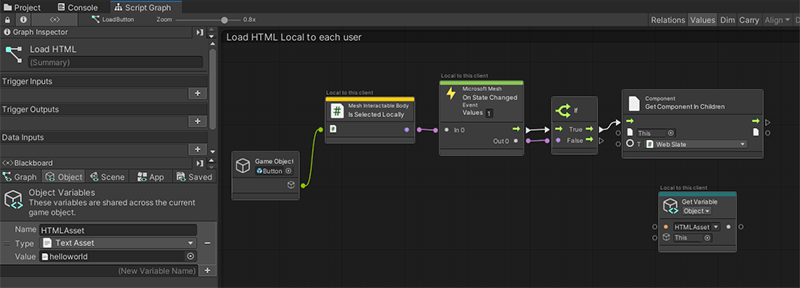
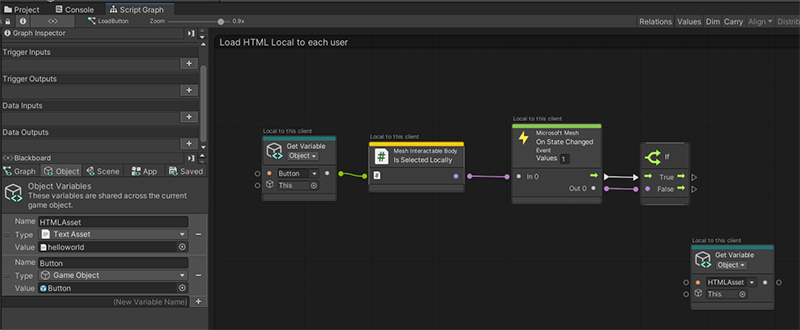
edits-082924-1740

Changed region(s): [[0.0, 0.0, 1.0, 1.0]]

diff --git a/mesh/develop/getting-started/mesh-201-tutorial/mesh-201-02-webslate-1.md b/mesh/develop/getting-started/mesh-201-tutorial/mesh-201-02-webslate-1.md
@@ -3,7 +3,7 @@ title: Mesh 201 Pt. 2':' Load a local non-shared HTML file into a WebSlate
 description: Learn about loading a local non-shared HTML file into a WebSlate.
 author: vtieto
 ms.author: vinnietieto
-ms.date: 7/11/2024
+ms.date: 8/29/2024
 ms.topic: tutorial
 ms.service: mesh
 keywords: Microsoft Mesh, getting started, Mesh 101, tutorial, scripting, visual scripting, code, coding, interactivity, webslates, HTML
@@ -39,8 +39,6 @@ Now that you're all set up and have had a chance to try out the project, let's m
  
     ![A screenshot of a computer Description ](../../../media/mesh-201/015-webslateframed-in-hierarchy.png)
 
-    **Note**: You have two options when choosing a WebSlate prefab: **WebSlate**, which is a simple design with no extra components, and **WebSlateFramed**, which has a stylized frame and extra features.
-
     Our WebSlate is now in the scene, but it doesn't have the size or position we want.
 
     ![A screenshot of a computer Description ](../../../media/mesh-201/016-slate-wrong-size-and-location.png)
@@ -59,7 +57,7 @@ Now that you're all set up and have had a chance to try out the project, let's m
 
 1. In the **Hierarchy**, expand the **WebSlateFramed** prefab.
 1. Select the child object of **WebSlateFramed** named **WebSlate**.
-1. In the **Inspector**, navigate to the **WebSlate** component and note that the **Current URL** property is set to the home page for all of Microsoft.
+1. In the **Inspector**, navigate to the **WebSlate** component and note that the **Current URL** property (the default URL or the WebSlate) is set to the home page for all of Microsoft.
 
     ![A screenshot of a computer Description ](../../../media/mesh-201/029-default-url.png)
 
@@ -75,12 +73,12 @@ Now that you're all set up and have had a chance to try out the project, let's m
 
     ![A screenshot of a computer Description ](../../../media/mesh-201/018-loadbutton-selected.png)
 
-    In the **Inspector**, you can see that that **LoadButton** has a **Script Machine** component containing an embedded script named **Load HTML**, and a variable that we'll be using in the script.
+    In the **Inspector**, you can see that that **LoadButton** with the name "Load HTML". The component has its **Source** property set to **Graph**, and it connects to a script asset file named "LoadButtonLocalStart". The **LoadButton** GameObject also has variables that we'll be using in the script.
 
     ![A screenshot of a computer Description ](../../../media/mesh-201/019-button-components.png)
 
     > [!TIP]
-    > The **Source** property for the script has two options: *Graph* and *Embed*. Each have advantages and disadvantages; you can learn more about them in the [Unity Script Machine article](https://docs.unity3d.com/Packages/com.unity.visualscripting@1.8/manual/vs-graph-machine-types.html). We use the *Embed* option here because, among other things, you can directly reference your scene nodes without making intermediate Object variables.
+    > The **Source** property for the script has two options: *Graph* and *Embed*. Each have advantages and disadvantages; you can learn more about them in the [Unity Script Machine article](https://docs.unity3d.com/Packages/com.unity.visualscripting@1.8/manual/vs-graph-machine-types.html). We use the *Graph* option here because this "Source" type has greater flexibility when connecting to Mesh Cloud Scripting.
 
 1. In the **Script Machine** component, click the **Edit Graph** button.
 1. Park the **Script Graph** window next to the **Project** and **Console** tabs. Click its tab to see its contents.
@@ -95,36 +93,45 @@ Now that you're all set up and have had a chance to try out the project, let's m
 
 In our current script, we use the node with "Is Selected Locally". This means that when the attendee clicks the Load button, only they will see the new HTML page that loads into the attached WebSlate.
 
-## Get the HTML page
+## Create a WebSlate object variable
 
 The script graph has already been started for you. We'll complete the tasks needed to enable the **Load** button at Station 1 to load the HTML page.
 
-The first thing we need to do is get access to the **WebSlate** component that's attached to the **WebSlate** object.
+The first thing we need to do is create an Object Variable that has the value of the **WebSlate** GameObject that's a child to the **WebSlateFramed** GameObject.
 
-![A screenshot of a computer Description ](../../../media/mesh-201/021-webslate-component.png)
+1. In the **New Variable Name** field, type in the name "WebSlate" and then press the Enter key.
 
-We have a node in the script graph set up for this--**Get Component in Children**--so ...
+![____________](../../../media/mesh-201/137-new-object-variable.png).
 
-1. Drag the **WebSlateFramed** object from the **Hierarchy** and then drop it in the first field in the **Get Component in Children** node.
+1. Click the **Type** drop-down and then search and select "WebSlate".
 
-    ![A screenshot of a computer Description ](../../../media/mesh-201/022-drag-slate-object.png)
+![____________](../../../media/mesh-201/138-select-webslate.png).
 
-1. Click the Control Output port of the **Get Component in Children** node, and then drag to the right. This opens the Fuzzy Finder. **WARNING**: Once you open the Fuzzy Finder, don't click anywhere outside of the Unity interface. This closes the Fuzzy Finder and causes unpredictable behavior in the Script Graph.
+1. Drag the **WebSlate** GameObject from the **Hierarchy** and then drop it in the **Value** field for the new variable.
+
+![____________](../../../media/mesh-201/139-drag-webslate.png).
+
+## Get the HTML Page
+
+
+
+1. Click the Control Output port of the **If** node, and then drag to the right. This opens the Fuzzy Finder. **WARNING**: Once you open the Fuzzy Finder, don't click anywhere outside of the Unity interface. This closes the Fuzzy Finder and causes unpredictable behavior in the Script Graph.
 1. In the Fuzzy Finder, search for "Web Slate: Load HTML Content (Html Asset)" and then select it. **Note** that there are two nodes with very similar names. 
 
     ![A screenshot of a computer Description ](../../../media/mesh-201/023-load-html-content.png)
 
     You want the one that says **Html Asset**, not **Html Content**.
 
-    ![A screenshot of a computer Description ](../../../media/mesh-201/024-node-content-or-asset.png)
+    ![__________________](../../../media/mesh-201/024-node-content-or-asset.png)
 
-1. Drag a connector from the Data Output port of the **Get Component in Children** node and then connect it to the Data Input port of the **Load HTML Content** node.
+1. Drag the newly-created **WebSlate** Object Variable and then place the node it generates above and to the left of the **Load HTML Content** node.  
+1. Connect the data output port of the **Get Object Variable** node to the first data input port of the **Load HTML Content** node.
 
-    ![A screenshot of a computer Description ](../../../media/mesh-201/026-connector-to-html-content.png)
+    ![____________](../../../media/mesh-201/140-connect-webslate-variable.png)
 
 1. We already have the web page we want to load in a **Get Variable** node in the script graph. Drag a connector from the Data Output port of the **Get Variable** node and then connect it to the Data Input port of the **Load HTML Content** node.
 
-    ![A screenshot of a computer Description ](../../../media/mesh-201/025-connect-variable-node.png)
+    ![____________](../../../media/mesh-201/141-connect-webslate-variable.png)
 
 ## Test your work
 
@@ -141,7 +148,7 @@ We have a node in the script graph set up for this--**Get Component in Children*
 
     ![A screenshot of a computer Description ](../../../media/mesh-201/028-webslate-with-default-page.png)
 
-1. Click the **Load** button. The WebSlate loads and displays a page from the variable you connected in the Scrip Graph that says "Hello World."
+1. Click the **Load** button. The WebSlate loads and displays a page from the variable you connected in the Script Graph that says "Hello World."
 
     ![A screenshot of a computer Description ](../../../media/mesh-201/030-webslate-with-loaded-page.png)
 
@@ -150,8 +157,6 @@ We have a node in the script graph set up for this--**Get Component in Children*
     ![A screenshot of a computer Description ](../../../media/mesh-201/031-hello-world-page.png)
 
     **TIP**: To get some extra insights into how the script works, watch it in the **Script Graph** as you click the **Load** button. The connectors between the nodes display informational tips and animations.
-
-    ![A screenshot of a computer Description ](../../../media/mesh-201/119-runtime-connector-tips.png)
 
 1. When you're finished, click the Unity Editor Play button to exit Play mode.
 
